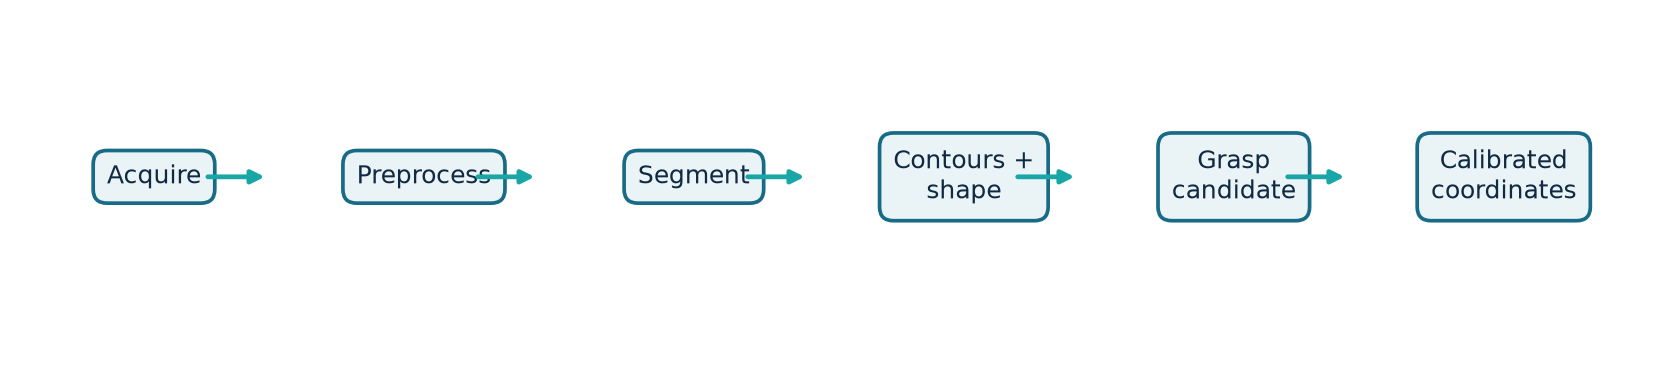
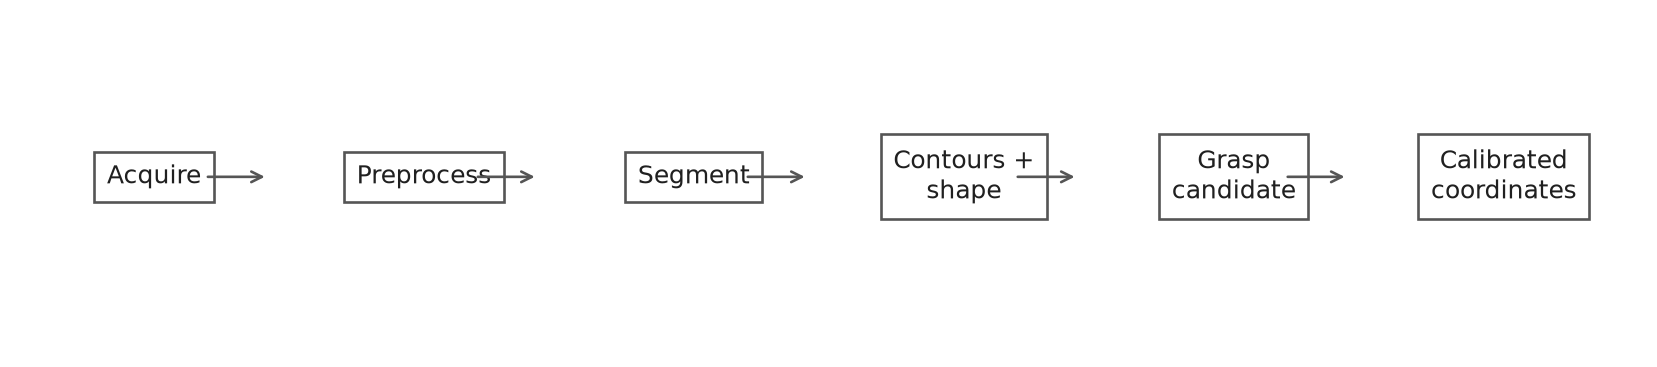
Restyle PS2 report

diff --git a/Autonomy/ps2_CV/build_report.py b/Autonomy/ps2_CV/build_report.py
@@ -17,12 +17,8 @@ from reportlab.platypus import (
 ROOT = Path(__file__).resolve().parent
 RESEARCH = ROOT / "research.md"
 OUTPUT = ROOT / "PS2_tool_sorting_report.pdf"
-NAVY = colors.HexColor("#102A43")
-BLUE = colors.HexColor("#176B87")
-TEAL = colors.HexColor("#18A6A6")
-INK = colors.HexColor("#243B53")
-PALE = colors.HexColor("#EAF3F6")
-MUTED = colors.HexColor("#526777")
+INK = colors.HexColor("#202020")
+MUTED = colors.HexColor("#555555")
 
 
 def clean_markup(text: str) -> str:
@@ -59,12 +55,12 @@ def parse_research(text: str, styles):
 def page_chrome(canvas, doc):
     canvas.saveState()
     width, height = A4
+    canvas.setStrokeColor(colors.HexColor("#B8B8B8"))
     if doc.page > 1:
-        canvas.setFillColor(NAVY)
-        canvas.rect(0, height - 7 * mm, width, 7 * mm, stroke=0, fill=1)
-        canvas.setFillColor(TEAL)
-        canvas.rect(0, height - 7 * mm, 31 * mm, 7 * mm, stroke=0, fill=1)
-    canvas.setStrokeColor(colors.HexColor("#D7E2EA"))
+        canvas.setFont("Helvetica", 8)
+        canvas.setFillColor(MUTED)
+        canvas.drawString(18 * mm, height - 11 * mm, "IVDC AUTONOMY 2026  |  PROBLEM STATEMENT 2")
+        canvas.line(18 * mm, height - 13 * mm, width - 18 * mm, height - 13 * mm)
     canvas.line(18 * mm, 15 * mm, width - 18 * mm, 15 * mm)
     canvas.setFont("Helvetica", 8)
     canvas.setFillColor(MUTED)
@@ -83,11 +79,11 @@ def workflow_figure(path: Path):
     ax.set_ylim(0, 1)
     ax.axis("off")
     for index, label in enumerate(labels):
-        ax.text(index + .5, .52, label, ha="center", va="center", color="#102A43", fontsize=9.5,
-                bbox={"boxstyle": "round,pad=0.55", "fc": "#EAF3F6", "ec": "#176B87", "lw": 1.4})
+        ax.text(index + .5, .52, label, ha="center", va="center", color="#202020", fontsize=9.5,
+                bbox={"boxstyle": "square,pad=0.5", "fc": "white", "ec": "#555555", "lw": 1.0})
         if index < len(labels) - 1:
             ax.annotate("", xy=(index + .93, .52), xytext=(index + .68, .52),
-                        arrowprops={"arrowstyle": "-|>", "color": "#18A6A6", "lw": 1.8})
+                        arrowprops={"arrowstyle": "->", "color": "#555555", "lw": 1.0})
     fig.savefig(path, dpi=190, bbox_inches="tight", facecolor="white")
     plt.close(fig)
 
@@ -102,12 +98,11 @@ def main():
     flow = output_dir / "workflow.png"
     workflow_figure(flow)
     styles = getSampleStyleSheet()
-    styles.add(ParagraphStyle(name="CoverTitlePS2", fontName="Helvetica-Bold", fontSize=25, leading=30, textColor=colors.white, alignment=TA_LEFT))
-    styles.add(ParagraphStyle(name="CoverSubtitlePS2", fontName="Helvetica", fontSize=11, leading=16, textColor=colors.HexColor("#D9EAF2")))
-    styles.add(ParagraphStyle(name="SectionPS2", fontName="Helvetica-Bold", fontSize=15, leading=19, textColor=BLUE, spaceBefore=4 * mm, spaceAfter=2.2 * mm, keepWithNext=True))
-    styles.add(ParagraphStyle(name="SubsectionPS2", fontName="Helvetica-Bold", fontSize=10.5, leading=14, textColor=NAVY, spaceBefore=2.5 * mm, spaceAfter=1 * mm, keepWithNext=True))
+    styles.add(ParagraphStyle(name="CoverTitlePS2", fontName="Helvetica-Bold", fontSize=22, leading=27, textColor=INK, alignment=TA_LEFT))
+    styles.add(ParagraphStyle(name="CoverSubtitlePS2", fontName="Helvetica", fontSize=10, leading=14, textColor=MUTED))
+    styles.add(ParagraphStyle(name="SectionPS2", fontName="Helvetica-Bold", fontSize=14, leading=18, textColor=INK, spaceBefore=4 * mm, spaceAfter=2.2 * mm, keepWithNext=True))
+    styles.add(ParagraphStyle(name="SubsectionPS2", fontName="Helvetica-Bold", fontSize=10.5, leading=14, textColor=INK, spaceBefore=2.5 * mm, spaceAfter=1 * mm, keepWithNext=True))
     styles.add(ParagraphStyle(name="BodyPS2", fontName="Helvetica", fontSize=9.1, leading=12.8, textColor=INK, spaceAfter=1.2 * mm, alignment=TA_LEFT))
-    styles.add(ParagraphStyle(name="CardPS2", fontName="Helvetica", fontSize=8.6, leading=12, textColor=INK))
     styles.add(ParagraphStyle(name="CaptionPS2", fontName="Helvetica-Oblique", fontSize=8, leading=10, textColor=MUTED, alignment=TA_CENTER, spaceAfter=2 * mm))
     doc = BaseDocTemplate(str(OUTPUT), pagesize=A4, leftMargin=18 * mm, rightMargin=18 * mm,
                           topMargin=16 * mm, bottomMargin=21 * mm,
@@ -117,39 +112,19 @@ def main():
     doc.addPageTemplates([PageTemplate(id="report", frames=frame, onPage=page_chrome)])
 
     story = []
-    cover = Table([
-        [Paragraph("PROBLEM STATEMENT 2<br/>COMPUTER VISION", styles["CoverSubtitlePS2"])],
-        [Paragraph("Robotic Object Sorting", styles["CoverTitlePS2"])],
-        [Paragraph("Research answers, classical vision pipeline, localization, and experiments", styles["CoverSubtitlePS2"])],
-    ], colWidths=[doc.width])
-    cover.setStyle(TableStyle([
-        ("BACKGROUND", (0, 0), (-1, -1), NAVY),
-        ("BOX", (0, 0), (-1, -1), .5, NAVY),
-        ("LEFTPADDING", (0, 0), (-1, -1), 8 * mm),
-        ("RIGHTPADDING", (0, 0), (-1, -1), 8 * mm),
-        ("TOPPADDING", (0, 0), (-1, -1), 2 * mm),
-        ("BOTTOMPADDING", (0, 0), (-1, -1), 2 * mm),
-        ("LINEBEFORE", (0, 0), (0, -1), 3, TEAL),
-    ]))
-    story.extend([Spacer(1, 5 * mm), cover, Spacer(1, 5 * mm)])
+    story.extend([Spacer(1, 14 * mm),
+                  Paragraph("IVDC AUTONOMY 2026  |  PROBLEM STATEMENT 2", styles["CoverSubtitlePS2"]),
+                  Spacer(1, 3 * mm), Paragraph("Computer Vision for<br/>Robotic Object Sorting", styles["CoverTitlePS2"]),
+                  Spacer(1, 3 * mm), Paragraph("Research, implementation and evaluation", styles["CoverSubtitlePS2"]),
+                  Spacer(1, 5 * mm)])
+    rule = Table([[""]], colWidths=[doc.width], rowHeights=[.5 * mm])
+    rule.setStyle(TableStyle([("BACKGROUND", (0, 0), (-1, -1), colors.HexColor("#777777"))]))
+    story.extend([rule, Spacer(1, 5 * mm)])
     story.append(Paragraph("Project overview", styles["SectionPS2"]))
     story.append(Paragraph(
         "This submission builds a transparent OpenCV baseline that turns a tabletop image into tool proposals, shape labels, image-space centers, orientation estimates, and candidate grasp points. It explains what the method can show and where it fails, especially under occlusion and without calibration.",
         styles["BodyPS2"]))
-    cards = [[
-        Paragraph("<b>Classical CV</b><br/>Blur, HSV/GrabCut, Canny, morphology, contours, and silhouette matching.", styles["CardPS2"]),
-        Paragraph("<b>Visible output</b><br/>Intermediate masks, annotated candidates, JSON/CSV coordinates, and workflow diagram.", styles["CardPS2"]),
-        Paragraph("<b>Scope boundary</b><br/>Generated illustrations only; no robot commands or claimed dataset accuracy.", styles["CardPS2"]),
-    ]]
-    card_table = Table(cards, colWidths=[doc.width / 3] * 3)
-    card_table.setStyle(TableStyle([
-        ("BACKGROUND", (0, 0), (-1, -1), PALE), ("BOX", (0, 0), (-1, -1), .6, colors.HexColor("#C4D6E0")),
-        ("INNERGRID", (0, 0), (-1, -1), .5, colors.white),
-        ("VALIGN", (0, 0), (-1, -1), "TOP"), ("LEFTPADDING", (0, 0), (-1, -1), 4 * mm),
-        ("RIGHTPADDING", (0, 0), (-1, -1), 4 * mm), ("TOPPADDING", (0, 0), (-1, -1), 4 * mm),
-        ("BOTTOMPADDING", (0, 0), (-1, -1), 4 * mm),
-    ]))
-    story.extend([card_table, Paragraph("End-to-end workflow", styles["SectionPS2"]),
+    story.extend([Paragraph("End-to-end workflow", styles["SectionPS2"]),
                   Image(str(flow), width=doc.width, height=39 * mm),
                   Paragraph("The Canny edge map is shown as a diagnostic. Contours are extracted from cleaned foreground masks so their regions remain filled.", styles["CaptionPS2"]),
                   PageBreak(), Paragraph("Demonstration scenes", styles["SectionPS2"]),
